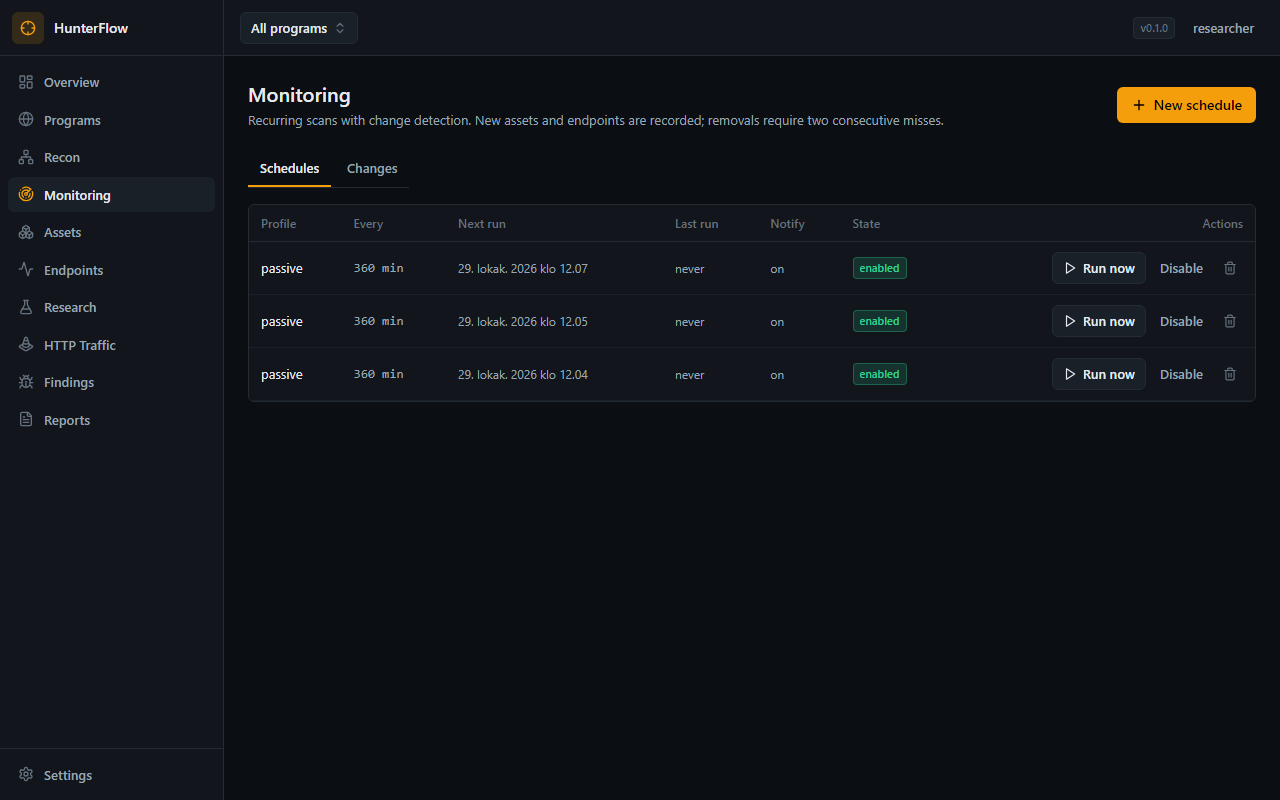
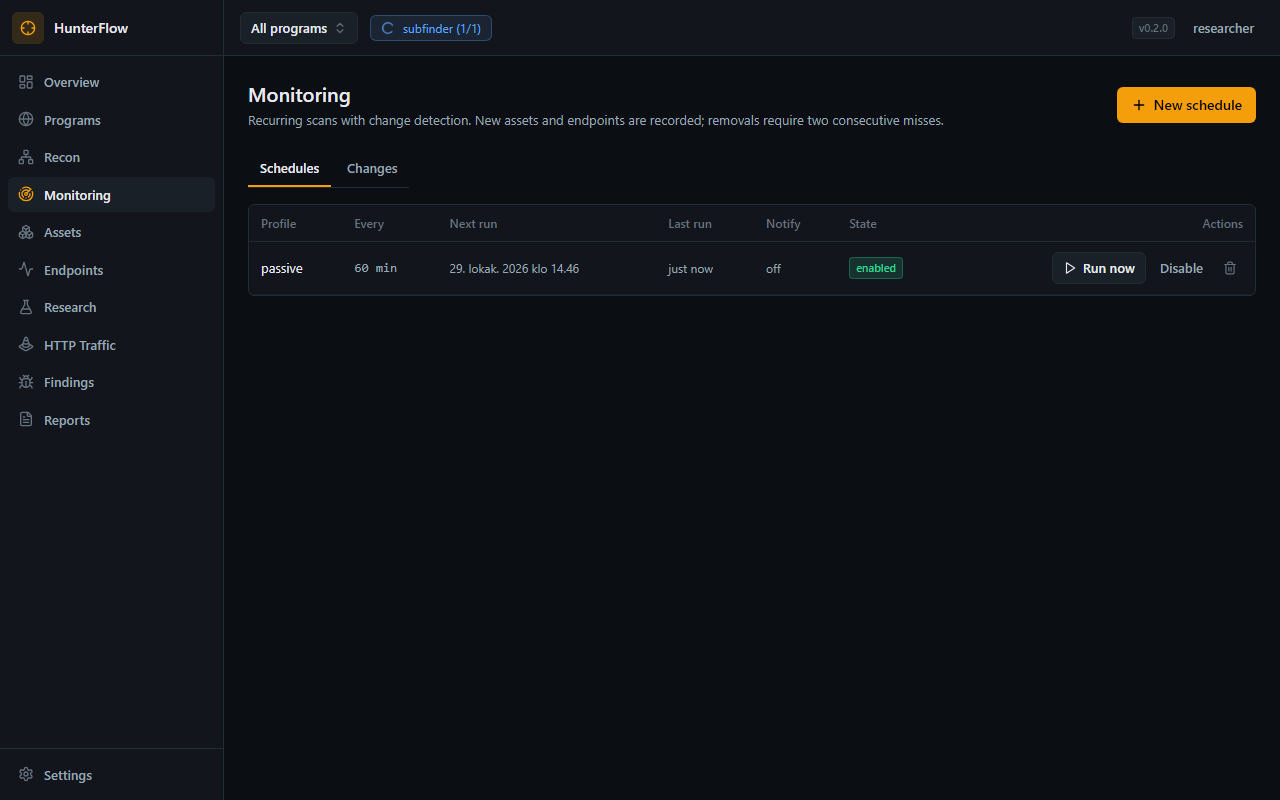
fix(docker,recon): verified full stack - broker in API, worker CLI, katana -u and URL scope regexes, httpx/nuclei redirect flags, web build-time backend URL, volume layout

diff --git a/backend/app/integrations/tools/registry.py b/backend/app/integrations/tools/registry.py
@@ -86,8 +86,8 @@ class HttpxAdapter:
             "-title",
             "-tech-detect",
         ]
-        # Redirects are NOT followed: out-of-scope redirect following is prohibited.
-        args += ["-follow-redirects", "false"] if ctx.extra.get("no_follow_redirects", True) else []
+        # httpx does not follow redirects unless -follow-redirects is passed;
+        # out-of-scope redirect following is prohibited, so we never enable it.
         if ctx.rate_limit:
             args += ["-rl", str(ctx.rate_limit)]
         for target in ctx.targets:
@@ -136,7 +136,7 @@ class KatanaAdapter:
         if ctx.rate_limit:
             args += ["-rl", str(ctx.rate_limit)]
         if ctx.extra.get("no_follow_redirects", True):
-            args.append("-no-follow")
+            args.append("-disable-redirects")
         # Scope enforcement inside katana: in-scope regexes derived from policy.
         in_scope = ctx.extra.get("in_scope_regexes") or []
         out_scope = ctx.extra.get("out_of_scope_regexes") or []
@@ -145,7 +145,7 @@ class KatanaAdapter:
         if out_scope:
             args += ["-cos", "|".join(out_scope)]
         for target in ctx.targets:
-            args.append(target)
+            args += ["-u", target]
         return args
 
     def parse(self, stdout: bytes, ctx: StepContext) -> Iterable[Observation]:
@@ -189,9 +189,7 @@ class NucleiAdapter:
         return info
 
     def build_args(self, ctx: StepContext, binary: str) -> list[str]:
-        args = [binary, "-silent", "-jsonl", "-no-color", "-no-mhe"]
-        if ctx.extra.get("no_follow_redirects", True):
-            args += ["-fr", "false"] if ctx.extra.get("use_fr_flag", True) else []
+        args = [binary, "-silent", "-jsonl", "-no-color", "-dr"]
         if ctx.extra.get("no_interactsh", True):
             args.append("-no-interactsh")
         if ctx.rate_limit:
@@ -200,7 +198,7 @@ class NucleiAdapter:
         if templates:
             args += ["-t", ",".join(templates)]
         for target in ctx.targets:
-            args.append(target)
+            args += ["-u", target]
         return args
 
     def parse(self, stdout: bytes, ctx: StepContext) -> Iterable[Observation]:

diff --git a/backend/app/jobs/worker.py b/backend/app/jobs/worker.py
@@ -4,37 +4,33 @@ from __future__ import annotations
 
 import argparse
 
-from ..core.config import get_settings
-from . import actors  # noqa: F401 (registers actors)
-from .broker import setup_broker
+from dramatiq.cli import main as dramatiq_main
+from dramatiq.cli import make_argument_parser
 
-try:
-    from dramatiq.cli import main as dramatiq_main
-except ImportError:  # pragma: no cover
-    dramatiq_main = None
+from ..core.config import get_settings
+from .broker import setup_broker
 
 
 def main() -> None:
     parser = argparse.ArgumentParser(description="HunterFlow worker")
     parser.add_argument("--processes", type=int, default=2)
     parser.add_argument("--threads", type=int, default=8)
-    args = parser.parse_args()
+    options = parser.parse_args()
 
     settings = get_settings()
     setup_broker(settings, stub=False)
 
-    if dramatiq_main is not None:
-        raise SystemExit(
-            dramatiq_main(
-                [
-                    "app.jobs.actors",
-                    "--processes",
-                    str(args.processes),
-                    "--threads",
-                    str(args.threads),
-                ]
-            )
-        )
+    cli_parser = make_argument_parser()
+    args = cli_parser.parse_args(
+        [
+            "app.jobs.actors",
+            "--processes",
+            str(options.processes),
+            "--threads",
+            str(options.threads),
+        ]
+    )
+    raise SystemExit(dramatiq_main(args))
 
 
 if __name__ == "__main__":

diff --git a/demo/app.py b/demo/app.py
@@ -19,6 +19,7 @@ Run: uvicorn demo.app:app --host 0.0.0.0 --port 8080
 from __future__ import annotations
 
 from fastapi import Depends, FastAPI, Header, HTTPException
+from fastapi.responses import HTMLResponse
 from pydantic import BaseModel
 
 app = FastAPI(title="HunterFlow Demo Target (synthetic, intentionally flawed)", version="0.1.0")
@@ -55,9 +56,24 @@ def current_user(authorization: str | None = Header(default=None)) -> dict:
     return USERS[username]
 
 
-@app.get("/")
+@app.get("/", response_class=HTMLResponse)
 def index():
-    return {"app": "hunterflow-demo", "note": "synthetic demo target for local testing only"}
+    # Simple HTML so a crawler has something to follow in the local demo.
+    return """<!doctype html>
+<html><head><title>HunterFlow demo target</title></head>
+<body>
+  <h1>HunterFlow demo target</h1>
+  <p>Synthetic, intentionally inconsistent app for local testing only.</p>
+  <ul>
+    <li><a href="/api/v1/version">version</a></li>
+    <li><a href="/api/users/me">me</a></li>
+    <li><a href="/api/orders">orders</a></li>
+    <li><a href="/api/orders/1">order 1</a></li>
+    <li><a href="/api/orders/2">order 2</a></li>
+    <li><a href="/api/admin/stats">admin stats</a></li>
+    <li><a href="/docs">docs</a></li>
+  </ul>
+</body></html>"""
 
 
 @app.get("/healthz")

diff --git a/backend/app/jobs/pipeline.py b/backend/app/jobs/pipeline.py
@@ -327,13 +327,18 @@ def _build_context(tool_name: str, targets: list[str], policy: Policy, options: 
 
 
 def _scope_regexes(policy: Policy):
+    """URL patterns for katana's -cs/-cos (they match full URLs, not hostnames)."""
+    import re
+
     allow, deny = [], []
     for rule in policy.rules:
-        if rule.kind.value == "domain_wildcard":
-            base = rule.value[2:]
-            pattern = r"(^|\.)" + base.replace(".", r"\.") + r"$"
-            (allow if rule.effect.value == "allow" else deny).append(pattern)
-        elif rule.kind.value == "domain_exact":
-            pattern = r"^" + rule.value.replace(".", r"\.") + r"$"
-            (allow if rule.effect.value == "allow" else deny).append(pattern)
+        if rule.kind.value == "domain_exact":
+            host = re.escape(rule.value)
+            pattern = rf"(?i)^https?://{host}(:[0-9]+)?(/|$)"
+        elif rule.kind.value == "domain_wildcard" and rule.value.startswith("*."):
+            base = re.escape(rule.value[2:])
+            pattern = rf"(?i)^https?://([a-z0-9-]+\.)+{base}(:[0-9]+)?(/|$)"
+        else:
+            continue
+        (allow if rule.effect.value == "allow" else deny).append(pattern)
     return allow, deny

diff --git a/backend/app/jobs/broker.py b/backend/app/jobs/broker.py
@@ -24,12 +24,26 @@ def setup_broker(settings: Settings, stub: bool = False) -> None:
         _broker = StubBroker()
         StubBroker.emit_after = False  # do not log stub emissions
         dramatiq.set_broker(_broker)
+        _rebind_actors(_broker)
         return
     _broker = RedisBroker(url=settings.redis_url)
     dramatiq.set_broker(_broker)
+    _rebind_actors(_broker)
     import logging
 
     logging.getLogger("dramatiq").setLevel(logging.WARNING)
+
+
+def _rebind_actors(broker: dramatiq.Broker) -> None:
+    """Actors capture their broker at declaration time; point them at the configured one."""
+    try:
+        from . import actors
+
+        for actor in (actors.run_scan_actor, actors.run_import_actor):
+            actor.broker = broker
+            broker.declare_actor(actor)
+    except Exception:  # during import cycles, actors will bind later
+        pass
 
 
 def get_broker() -> dramatiq.Broker | None:

diff --git a/backend/app/main.py b/backend/app/main.py
@@ -66,6 +66,10 @@ def create_app(settings: Settings | None = None) -> FastAPI:
         factory = build_session_factory(engine)
         app.state.engine = engine
         app.state.session_factory = factory
+        if settings.env != "test":
+            from .jobs.broker import setup_broker
+
+            setup_broker(settings)
         _create_bootstrap_user(settings, factory)
         yield
         engine.dispose()

diff --git a/docs/known-issues.md b/docs/known-issues.md
@@ -2,9 +2,11 @@
 
 | # | Date | Area | Issue | Impact | Status |
 |---|---|---|---|---|---|
-| 1 | 2026-10-29 | Environment | Docker registry pull for `redis:7-alpine` failed mid-pull during local verification | Local real-scan path (non-dry-run) couldn't be exercised end-to-end on the dev host | Docker Compose provides Redis in normal use; dry-run path verified locally; worker pipeline verified via StubBroker tests |
-| 2 | 2026-10-29 | Environment | Tool binaries are Linux-only; local dev host is Windows | Real-tool subprocess runs not exercised locally | Adapters verified with golden fixtures + fake binaries; binaries pinned w/ SHA-256 in `tools.lock`; CI (Linux) exercises real images |
-| 3 | 2026-10-29 | Security (residual) | Per-request scope control inside third-party tools is limited | A tool could internally follow a redirect after our check (TOCTOU) | Documented in `specs/architecture/security.md` §9; no-follow flags + post-hoc violation logging; full mitigation requires a proxy gateway (post-MVP) |
-| 4 | 2026-10-29 | Security (residual) | SQLite dev mode lacks row-level/JSONB constraint parity with PostgreSQL | Dev-only; not a supported runtime | PostgreSQL is the only supported runtime (ADR-005) |
-| 5 | 2026-10-29 | Product | Single-user model means one account; registration disabled after first account | Expected for v0.1.0 (non-goal: multi-tenancy) | By design |
-| 6 | 2026-10-29 | Perf | Tag filter on assets/endpoints is applied post-pagination | Inaccurate `total` when filtering by tag | Low impact; batch DB-side filtering planned with JSONB containment on Postgres |
+| 1 | 2026-10-29 | Security (residual) | Per-request scope control inside third-party tools is limited | A tool could follow a redirect after our check (TOCTOU) | Documented in `specs/architecture/security.md` §9; katana/httpx run with redirects disabled, nuclei with `-dr`; full mitigation needs a proxy gateway (post-MVP) |
+| 2 | 2026-10-29 | Security (residual) | SQLite dev mode lacks PostgreSQL constraint parity | Dev only; not a supported runtime | PostgreSQL is the only supported runtime (ADR-005) |
+| 3 | 2026-10-29 | Product | Single-user model: registration closes after the first account | Expected for v0.2 | By design |
+| 4 | 2026-10-29 | Monitoring | Removal detection is heuristic (two consecutive misses) | A host that flaps can be reported as removed | Events are informational; verify before acting |
+| 5 | 2026-10-29 | Monitoring | Passive subdomain enumeration can return irrelevant hosts for reserved names | The local `demo.local` demo shows such hosts as `needs_confirmation` | They are never probed (not in scope); harmless |
+| 6 | 2026-10-29 | Perf | Tag filter on assets/endpoints is applied after pagination | Inaccurate `total` when filtering by tag | Low impact; batch DB-side filtering planned with JSONB containment |
+| 7 | 2026-10-29 | Ops | No log rotation configured in compose | Docker logs can grow | Configure the Docker daemon or compose `logging` options |
+| 8 | 2026-10-29 | Ops | Scheduler assumes a single instance | Running two schedulers can double-enqueue | Run exactly one `scheduler` service (compose default) |

diff --git a/README.md b/README.md
@@ -118,6 +118,7 @@ Captured from the running application.
 | ![Overview](docs/screenshots/overview.png) | ![Scope](docs/screenshots/scope.png) |
 | ![Research](docs/screenshots/research.png) | ![Traffic](docs/screenshots/traffic.png) |
 | ![Findings](docs/screenshots/findings.png) | ![Monitoring](docs/screenshots/monitoring.png) |
+| ![Monitoring changes](docs/screenshots/monitoring-changes.png) | ![First-run account](docs/screenshots/first-run-account.png) |
 
 More in `docs/screenshots/` (programs, endpoints, recon, first-run account).
 
@@ -175,10 +176,15 @@ More detail in [`docs/development.md`](docs/development.md) and
 ## Tests
 
 ```
-backend: 133 passed (unit, integration, security)
+backend: 148 passed (unit, integration, security)
 e2e:     6 passed (Playwright, critical journeys)
 lint:    ruff clean, tsc clean
 ```
+
+The stack was also exercised end to end with Docker Compose (PostgreSQL, Redis, worker,
+scheduler, synthetic demo target): a real `web_inventory` scan ran subfinder, httpx and
+katana against `demo.local`, produced assets and endpoints, recorded change events, and a
+schedule fired automatically from the scheduler.
 
 The security suite attacks the real controls: scope bypasses, host tricks, CSRF, injection,
 redaction, and evidence isolation. See [`specs/testing-strategy.md`](specs/testing-strategy.md).
@@ -195,10 +201,10 @@ redaction, and evidence isolation. See [`specs/testing-strategy.md`](specs/testi
 ## Limitations
 
 - Single user, no teams or roles yet.
-- The Docker toolchain image has not been exercised end to end on every platform; the
-  binaries are pinned with checksums in `backend/integrations/tools.lock`.
+- Removal detection is heuristic (two consecutive misses); treat "removed" as a prompt to
+  re-check, not as fact.
 - No continuous proxy capture, no PDF export, no AI features.
-- These are deliberate boundaries, listed in [`docs/known-issues.md`](docs/known-issues.md).
+- See [`docs/known-issues.md`](docs/known-issues.md) for the current list.
 
 ## Roadmap
 

diff --git a/docs/implementation-progress.md b/docs/implementation-progress.md
@@ -28,16 +28,17 @@
 | Frontend build (`next build`) | success |
 | Playwright E2E (`workflows.spec.ts`) | 6 passed |
 | Lint (`ruff`) | clean |
-| Screenshots (real captures) | 11 files in `docs/screenshots/` |
+| Screenshots (real captures) | 12 files in `docs/screenshots/` |
 | Asset list benchmark (10k rows) | p95 73 ms (budget < 500 ms) |
-| Live smoke (web → api proxy → SQLite + migrations) | verified |
+| Docker Compose stack (db, redis, api, worker, scheduler, web, demo) | up, healthy |
+| Real `web_inventory` scan of `demo.local` | completed: subfinder + httpx + katana, 8 endpoints, 32 monitoring events |
+| Scheduler | created a job automatically for a due schedule |
 
 ## Known limitations
 
-See `docs/known-issues.md`. Main ones: single-user; real (non-dry-run) scans need Redis and
-the worker (Docker deployment); the Docker toolchain image was not built end to end on the
-development host; per-request scope control inside third-party tools is limited (documented
-residual risk).
+See `docs/known-issues.md`. Main ones: single-user; removal detection is heuristic;
+per-request scope control inside third-party tools is limited (documented residual risk);
+no log rotation by default.
 
 ## Next
 

diff --git a/CHANGELOG.md b/CHANGELOG.md
@@ -21,6 +21,17 @@ All notable changes to HunterFlow are documented here. The format follows
 - Recon targets are shaped per tool: subfinder receives hostnames, httpx/katana receive URLs.
 - Login rate limiting is per account (proxy-safe) in addition to a broader per-IP limit.
 
+### Fixed
+- Docker stack verified end to end (PostgreSQL, Redis, worker, scheduler, web, demo target).
+- Dramatiq broker is configured in the API process as well, so enqueuing uses `HF_REDIS_URL`.
+- Worker starts through the Dramatiq argument parser instead of passing a raw list.
+- Tool arguments corrected against the installed binaries: katana targets via `-u`,
+  katana `-disable-redirects`, httpx no invalid `-follow-redirects false`, nuclei `-dr`.
+- Katana crawl scope regexes now match full URLs (they previously matched only hosts and
+  filtered out the seed).
+- Web image bakes the in-network API URL at build time (rewrites are evaluated at build).
+- Data volume layout no longer conflicts with the worker tmpfs mounts.
+
 ## [0.1.0] - 2026-10-29
 
 Research Workspace MVP: programs and scope, recon orchestration, asset/endpoint inventory,
